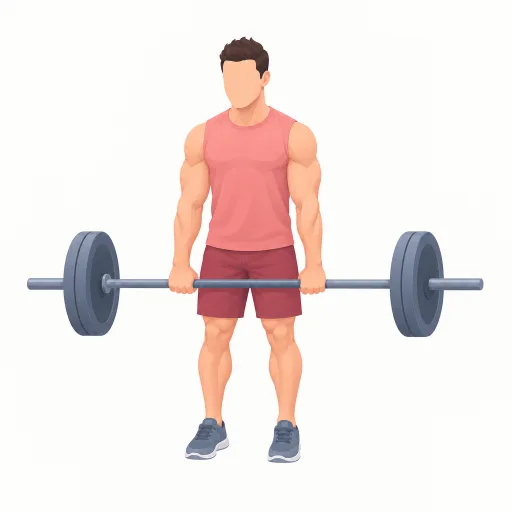
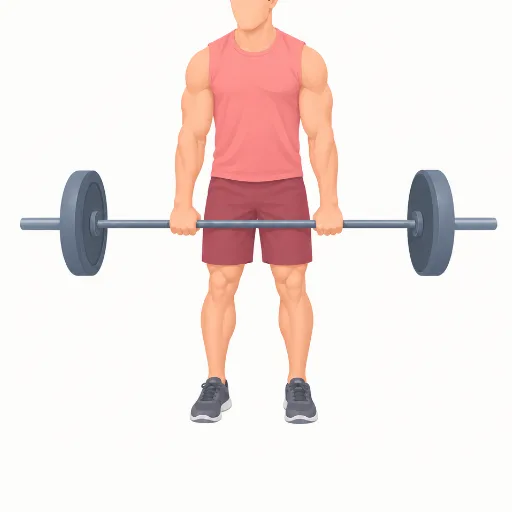
Repetir 8 ilustraciones de ejercicios y añadir dominadas asistidas en máquina

Changed region(s): [[0.0312, 0.0, 0.9688, 0.9062]]

diff --git a/apps/mobile/src/lib/exercise-images.ts b/apps/mobile/src/lib/exercise-images.ts
@@ -83,6 +83,10 @@ const FRAMES: Record<string, ExerciseFrames> = {
     require('../../assets/exercises/dominadas_0.webp'),
     require('../../assets/exercises/dominadas_1.webp'),
   ],
+  'dominadas asistidas en maquina': [
+    require('../../assets/exercises/dominadas-asistidas-en-maquina_0.webp'),
+    require('../../assets/exercises/dominadas-asistidas-en-maquina_1.webp'),
+  ],
   'dominadas supinas': [
     require('../../assets/exercises/dominadas-supinas_0.webp'),
     require('../../assets/exercises/dominadas-supinas_1.webp'),

diff --git a/CLAUDE.md b/CLAUDE.md
@@ -90,5 +90,5 @@ Primero PWA para uso propio; después App Store (iPhone). Si funciona, se podrí
 ## Imágenes de ejercicios
 
 - **Cómo se generan:** a partir de las dos fotos (posición inicial y final) de free-exercise-db (dominio público, Unlicense), redibujadas con OpenAI (`images.edit`, el mismo modelo y la misma clave que usa china-history, en `china-history-api/.env`; la clave solo se usa en local, nunca en el repo ni en la app). La imagen inicial sale de la foto 0 y la final de la ilustración inicial más la foto 1, para que figura y encuadre no cambien entre las dos. Estilo: ilustración plana, atleta sin cara con camiseta salmón y pantalón rosa oscuro, material en gris azulado, **sin fondo de gimnasio** y solo el material del ejercicio (sacarlo del campo `equipment`; si se lista material genérico en el prompt, el modelo lo dibuja todo).
-- **Dónde viven:** `apps/mobile/assets/exercises/<nombre-del-ejercicio>_0.webp` y `_1.webp`, a 512 px y unos 12 KB cada una, y se registran por nombre en `lib/exercise-images.ts`. De momento hay 45: todo Pecho, buena parte de Espalda y de Hombros (hasta el press Arnold, sin «Dominadas asistidas en máquina», «Remo pendlay» ni «Elevaciones frontales con barra», que no tienen equivalente fiable en free-exercise-db) más los encogimientos de hombros con barra (la lista completa está en `lib/exercise-images.ts`; «Dominadas asistidas en máquina» se saltó porque free-exercise-db solo tiene la versión con banda elástica). Los nueve primeros, de Pecho: press de banca con barra, con mancuernas y con agarre cerrado, fondos en paralelas, aperturas con mancuernas (Dumbbell Flyes), aperturas inclinadas (Incline Dumbbell Flyes), contractora (Butterfly), cruces en polea (Cable Crossover) y flexiones de brazos (Pushups); el registro está en `lib/exercise-images.ts`. **Sin suelo** en el prompt (si se dibuja una línea de suelo, cambia entre las dos imágenes y «se mueve»). **Regla de alineado automático** (mitad inferior del encuadre si el ejercicio tiene banco o pies fijos; imagen entera en máquinas; parte superior en dominadas): se acepta la imagen alineada solo si el error baja a menos de la mitad, la escala cambia como mucho un 20 %, el desplazamiento horizontal no pasa de 40 px y el vertical de 70; si no, se deja la imagen sin tocar. **Revisar la imagen final aunque el alineado se acepte**: en el peso muerto rumano y el press Arnold el ajuste (con escala 1,09-1,11) cortaba la cabeza o las mancuernas por el borde y se dejaron sin alinear a mano. Se genera una hoja con todas las superposiciones para revisarlas de un vistazo. **El alineado automático no siempre mejora**: en las flexiones, donde cambia la figura entera y no hay zona quieta, encogía la figura (escala 0,925) y descolocaba las manos; ahí se dejó la segunda imagen sin alinear. Comprobar siempre la superposición antes y después y quedarse con la mejor. **Imágenes sin menú de iOS:** al mantener pulsada una imagen, iOS abre una vista ampliada para copiarla y marca un marco; se evita con `pointerEvents: none`, `userSelect: none` y `-webkit-touch-callout: none` en la imagen (`exercise-motion.tsx`), en el recuadro y en `global.css`. En el prompt hay que indicar el material exacto de cada ejercicio. Al alinear, la zona de comparación es la mitad inferior en los press de banca; en los fondos, donde se mueve casi todo el cuerpo, se usa la imagen entera y lo que acaba coincidiendo es la estructura de barras. El resto se hará en tandas cuando guste el resultado. **Alinear la imagen final con la inicial:** aunque se pase la ilustración inicial como referencia, el modelo recoloca un poco la escena (en el press de banca, ~17 px en vertical) y al alternarlas parece que el banco sube y baja. Se corrige a posteriori: se busca el desplazamiento y la escala de la imagen final que mejor encajan con la inicial sobre la zona casi inmóvil (mitad inferior: banco y pies) y se re-renderiza desplazada; el error de coincidencia bajó de 1327 a 113. Hacerlo para cada ejercicio nuevo antes de guardarlo. Pendiente: emparejar los 133 nombres del catálogo con los de free-exercise-db.
+- **Dónde viven:** `apps/mobile/assets/exercises/<nombre-del-ejercicio>_0.webp` y `_1.webp`, a 512 px y unos 12 KB cada una, y se registran por nombre en `lib/exercise-images.ts`. De momento hay 46: todo Pecho, buena parte de Espalda y de Hombros (hasta el press Arnold, sin «Remo pendlay» ni «Elevaciones frontales con barra», que no tienen equivalente fiable en free-exercise-db) más los encogimientos de hombros con barra (la lista completa está en `lib/exercise-images.ts`; «Dominadas asistidas en máquina» se hizo a partir de las fotos de dominadas con una máquina con plataforma para las rodillas, porque free-exercise-db solo tiene la versión con banda). Repetidas tras revisarlas: cruces en polea, encogimientos con barra, jalón tras nuca, pesos muertos, remo en máquina y elevaciones laterales en polea. Lecciones: en las máquinas de polea se dibuja la pila de pesas (en la segunda imagen las placas de arriba suben y se ve un hueco; sin pila no se entendía), agarres descritos como un cable simple, y en los pesos muertos «cuerpo entero con los pies visibles»; el peso muerto se alinea por los pies y se reduce (0,82, anclado abajo) en vez de recortar la cabeza. Los nueve primeros, de Pecho: press de banca con barra, con mancuernas y con agarre cerrado, fondos en paralelas, aperturas con mancuernas (Dumbbell Flyes), aperturas inclinadas (Incline Dumbbell Flyes), contractora (Butterfly), cruces en polea (Cable Crossover) y flexiones de brazos (Pushups); el registro está en `lib/exercise-images.ts`. **Sin suelo** en el prompt (si se dibuja una línea de suelo, cambia entre las dos imágenes y «se mueve»). **Regla de alineado automático** (mitad inferior del encuadre si el ejercicio tiene banco o pies fijos; imagen entera en máquinas; parte superior en dominadas): se acepta la imagen alineada solo si el error baja a menos de la mitad, la escala cambia como mucho un 20 %, el desplazamiento horizontal no pasa de 40 px y el vertical de 70; si no, se deja la imagen sin tocar. **Revisar la imagen final aunque el alineado se acepte**: en el peso muerto rumano y el press Arnold el ajuste (con escala 1,09-1,11) cortaba la cabeza o las mancuernas por el borde y se dejaron sin alinear a mano. Se genera una hoja con todas las superposiciones para revisarlas de un vistazo. **El alineado automático no siempre mejora**: en las flexiones, donde cambia la figura entera y no hay zona quieta, encogía la figura (escala 0,925) y descolocaba las manos; ahí se dejó la segunda imagen sin alinear. Comprobar siempre la superposición antes y después y quedarse con la mejor. **Imágenes sin menú de iOS:** al mantener pulsada una imagen, iOS abre una vista ampliada para copiarla y marca un marco; se evita con `pointerEvents: none`, `userSelect: none` y `-webkit-touch-callout: none` en la imagen (`exercise-motion.tsx`), en el recuadro y en `global.css`. En el prompt hay que indicar el material exacto de cada ejercicio. Al alinear, la zona de comparación es la mitad inferior en los press de banca; en los fondos, donde se mueve casi todo el cuerpo, se usa la imagen entera y lo que acaba coincidiendo es la estructura de barras. El resto se hará en tandas cuando guste el resultado. **Alinear la imagen final con la inicial:** aunque se pase la ilustración inicial como referencia, el modelo recoloca un poco la escena (en el press de banca, ~17 px en vertical) y al alternarlas parece que el banco sube y baja. Se corrige a posteriori: se busca el desplazamiento y la escala de la imagen final que mejor encajan con la inicial sobre la zona casi inmóvil (mitad inferior: banco y pies) y se re-renderiza desplazada; el error de coincidencia bajó de 1327 a 113. Hacerlo para cada ejercicio nuevo antes de guardarlo. Pendiente: emparejar los 133 nombres del catálogo con los de free-exercise-db.
 
